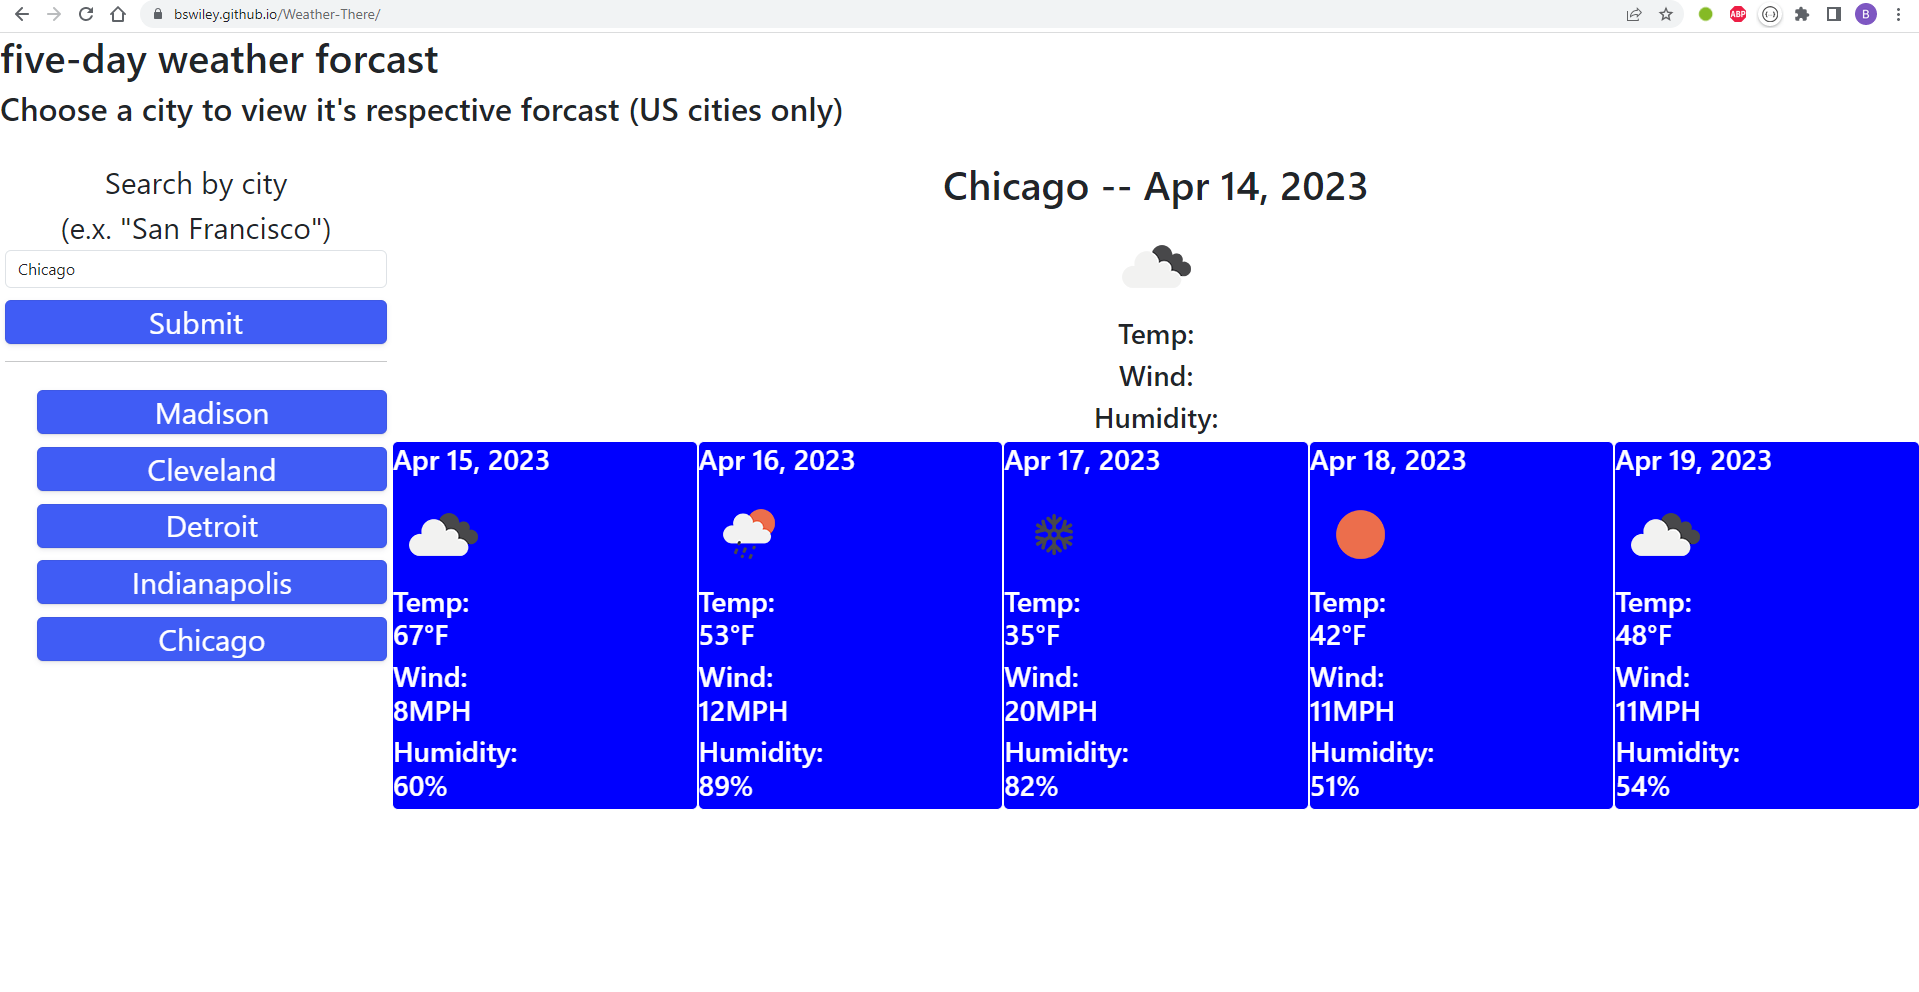
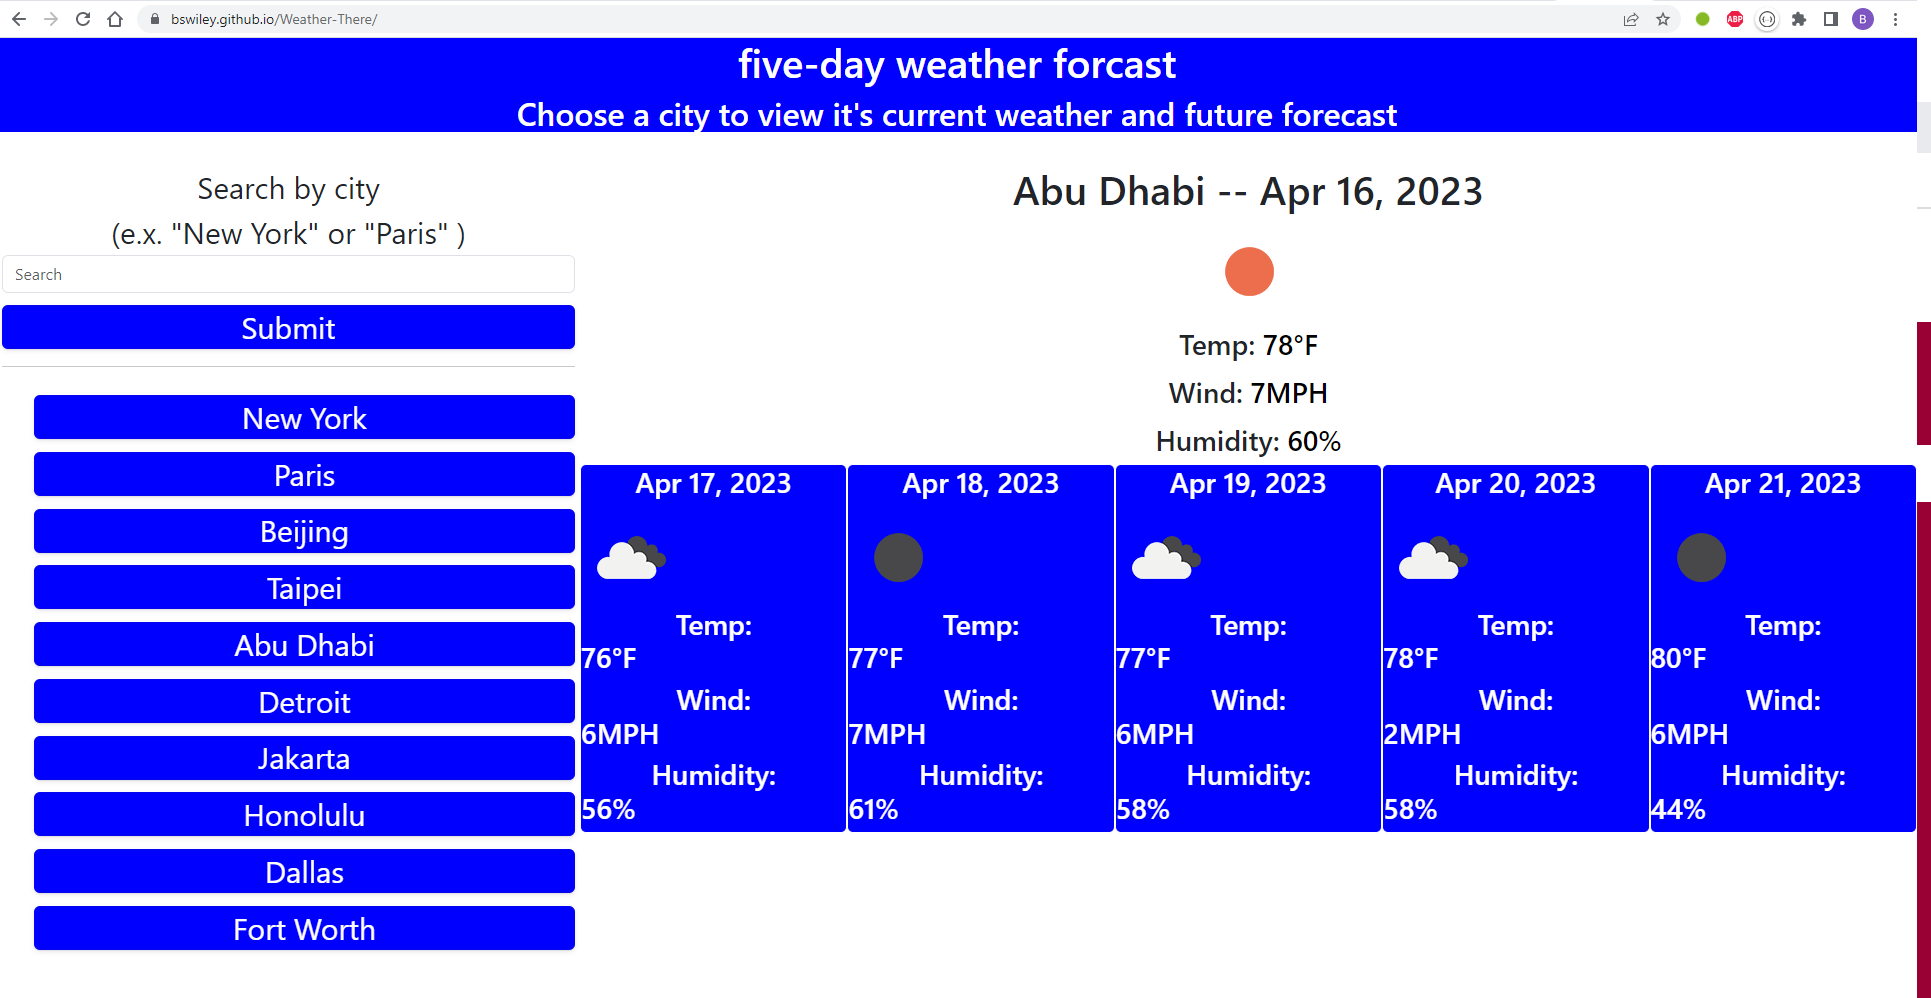
added new screencapture

diff --git a/README.md b/README.md
@@ -1,7 +1,7 @@
 # Repository Title
 
 ## Description
-The purpose of this application is to give the user the ability to search for the weather at different cities.  
+The purpose of this application is to give the user the ability to search for the weather at different cities around the world.  Once a city is submited, it's information will be saved and can be looked at again by clicking on the respective button that is created.  The information and the list of cities will be stored for the entire day, but will have to be started again the next day.  
 
 ## Installation
 I have already deployed this to the website https://bswiley.github.io// so nothing further needs to be done to get it to work.  A copy of the index is at the same level in the repository as is this README.md file.  Also in the same directory is the following screencapture: ![screencapture](screencapture.png)  
